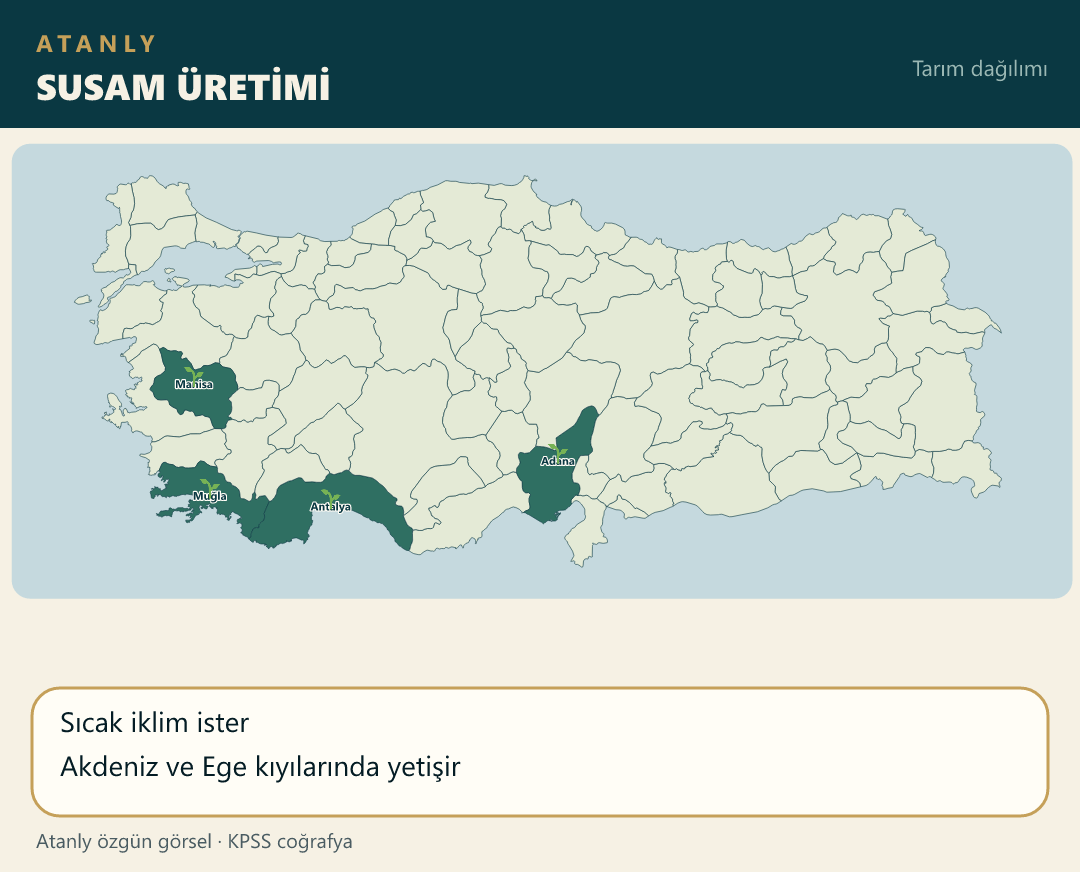
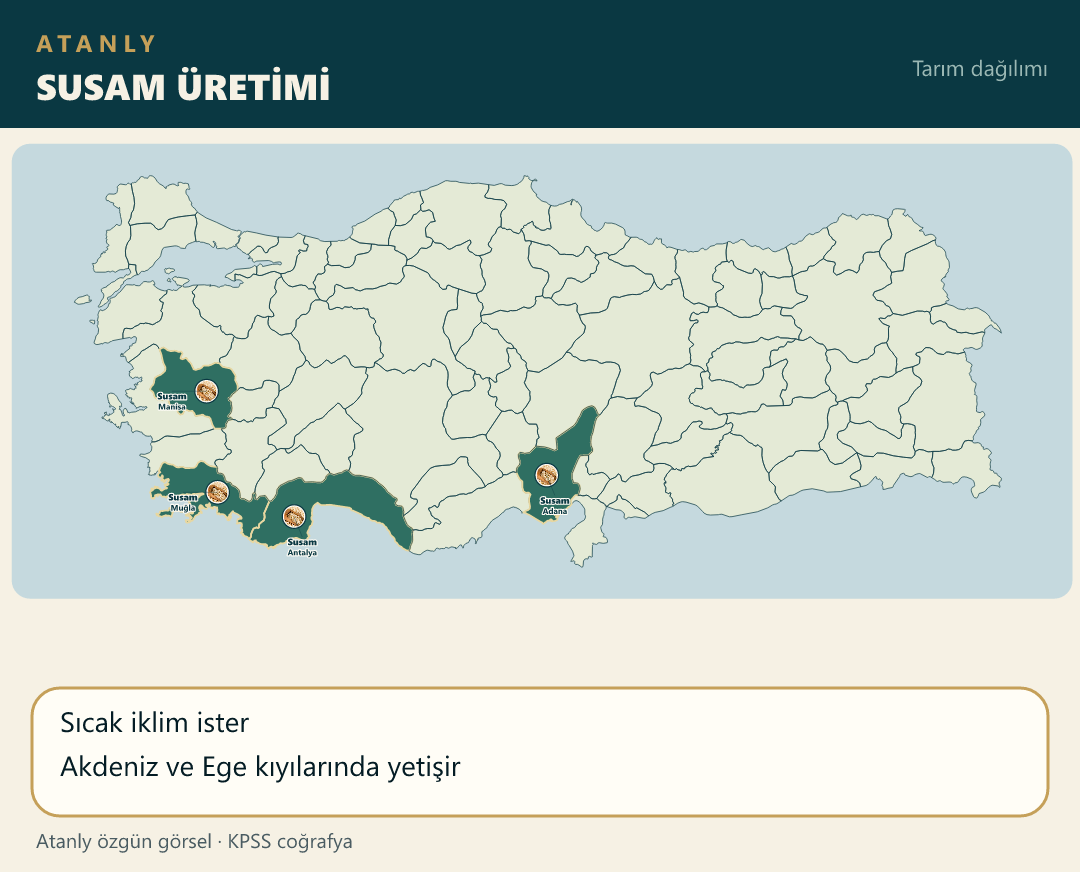
Place the sesame photo on Antalya, Mugla, Manisa, and Adana land-center pins.

diff --git a/scripts/build-atanly-maps.js b/scripts/build-atanly-maps.js
@@ -476,7 +476,7 @@ function topicIcon(file) {
         gul: "rose", elma: "elma", bugday: "bugday", pamuk: "cotton", zeytin: "olive",
         uzum: "grapes", misir: "corn", patates: "potato", arpa: "arpa", sekerpancar: "beet",
         hashas: "poppy", incir: "fig", kayisi: "apricot", muz: "banana", anason: "anason",
-        aspir: "aspir", susam: "seed", tutun: "leaf", yerfistik: "peanut", antepfistik: "antepfistik",
+        aspir: "aspir", susam: "sesame", tutun: "leaf", yerfistik: "peanut", antepfistik: "antepfistik",
         kirmizimercimek: "lentil", turunc: "citrus", kanola: "canola", pirinc: "rice",
         aycicek: "aycicek", findik: "findik", cay: "cay", kenevir: "hemp",
         kivrimdaglar: "fold-mtn", kirikdaglar: "fault-mtn", volkanikdaglar: "volcano",
@@ -707,7 +707,14 @@ function main() {
                 { il: "Aksaray", ilce: "Eskil" }
             ],
             facts: ["Kuraklığa dayanıklı yağ bitkisi", "İç Anadolu’da ekimi artmaktadır"] },
-        { file: "susam.png", title: "SUSAM ÜRETİMİ", iller: ["Antalya", "Muğla", "Manisa", "Adana"], facts: ["Sıcak iklim ister", "Akdeniz ve Ege kıyılarında yetişir"] },
+        { file: "susam.png", title: "SUSAM ÜRETİMİ", urun: "Susam",
+            noktalar: [
+                { il: "Antalya", ldx: 8, ldy: 28 },
+                { il: "Muğla", ldx: -34, ldy: 8 },
+                { il: "Manisa", ldx: -34, ldy: 8 },
+                { il: "Adana", ldx: 8, ldy: 28 }
+            ],
+            facts: ["Sıcak iklim ister", "Akdeniz ve Ege kıyılarında yetişir"] },
         { file: "tütün.png", title: "TÜTÜN ÜRETİMİ", iller: ["Manisa", "Denizli", "Samsun", "Adıyaman", "Bitlis", "Muş"], facts: ["Ege ve Karadeniz’de klasik üretim alanları", "Doğu Anadolu’da da ekilir"] },
         { file: "yer_fıstık.png", title: "YER FISTIĞI", iller: ["Osmaniye", "Adana", "Aydın", "Kahramanmaraş"], facts: ["Çukurova ve Osmaniye öne çıkar", "Sıcaklık ve kumlu-tınlı toprak ister"] },
         { file: "antep_fıstık.png", title: "ANTEP FISTIĞI", urun: "Antep fıstığı",

diff --git a/notlar/cografya-19-not.js b/notlar/cografya-19-not.js
@@ -2,7 +2,7 @@
 (function () {
     function harita(src, alt) {
         return '<div class="mt-4 overflow-hidden rounded-xl border border-blue-200 dark:border-blue-700/50 bg-white dark:bg-slate-800 p-2">' +
-            '<img src="./src/img/' + src + '?v=35" alt="' + alt + ' Haritası" class="w-full h-auto rounded-lg object-contain" loading="lazy">' +
+            '<img src="./src/img/' + src + '?v=36" alt="' + alt + ' Haritası" class="w-full h-auto rounded-lg object-contain" loading="lazy">' +
             "</div>";
     }
 

diff --git a/index.html b/index.html
@@ -117,7 +117,7 @@
     <script src="notlar/cografya-16-not.js?v=3"></script>
     <script src="notlar/cografya-17-not.js?v=3"></script>
     <script src="notlar/cografya-18-not.js?v=18"></script>
-    <script src="notlar/cografya-19-not.js?v=31"></script>
+    <script src="notlar/cografya-19-not.js?v=32"></script>
     <script src="notlar/cografya-20-not.js?v=1"></script>
     <script src="notlar/cografya-21-not.js?v=32"></script>
     <script src="notlar/cografya-22-not.js?v=1"></script>
